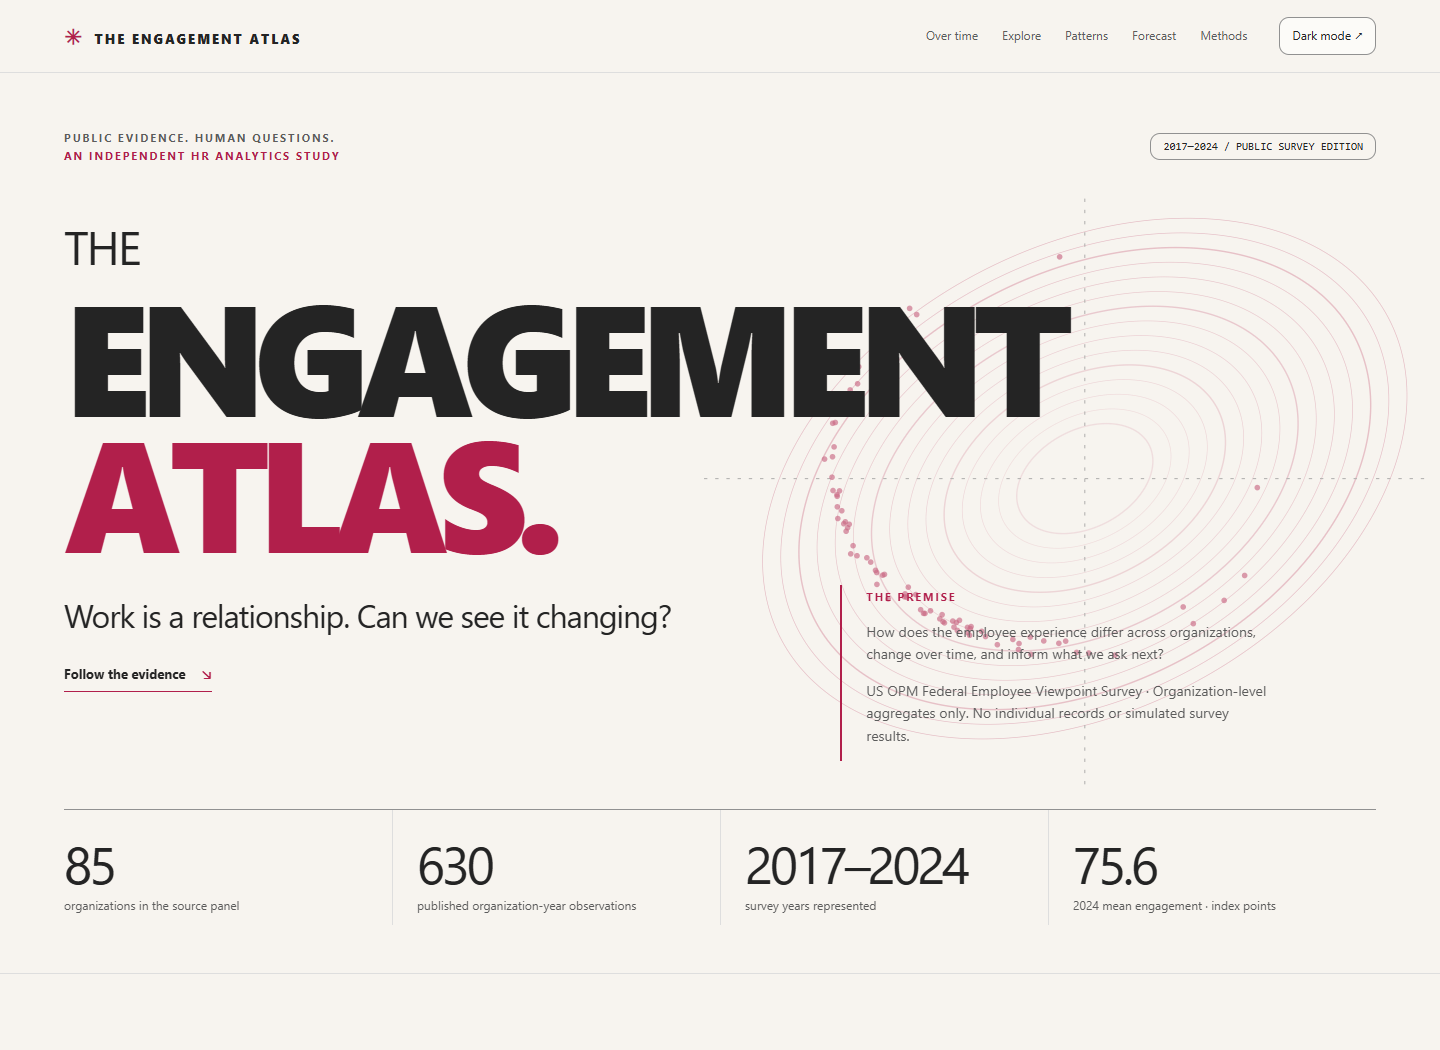
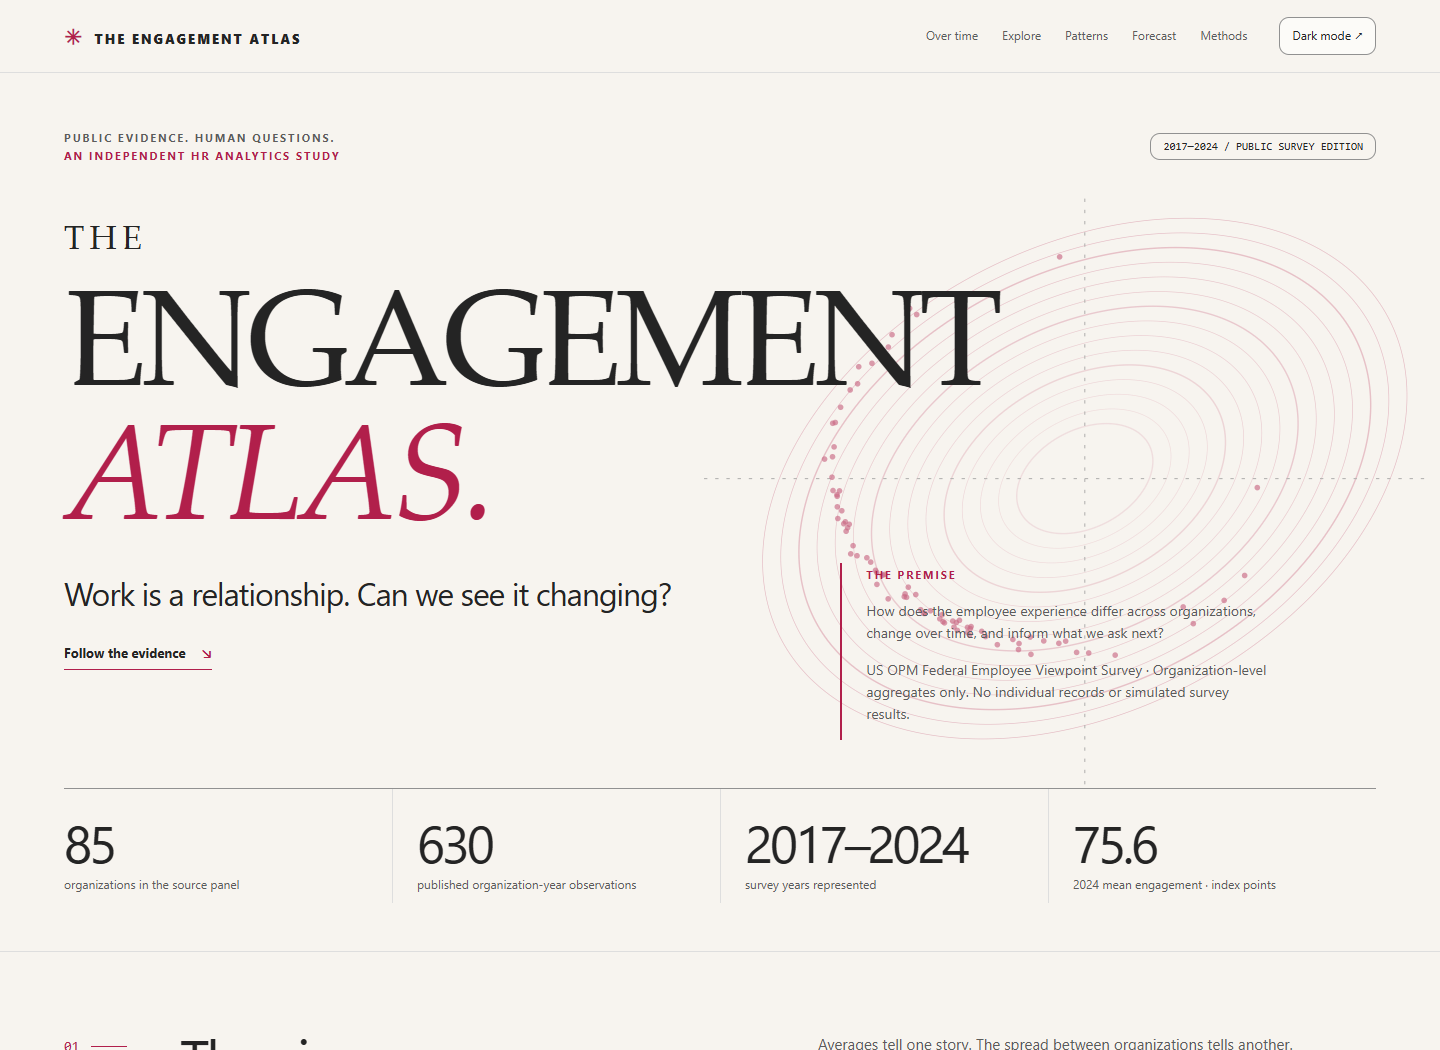
Refine atlas title typography and animate decorative assembly
Preserve embedded analytical results and the existing brand symbol. Add finite SVG assembly with reduced-motion support and responsive title checks.

Copilot-Session: e97de8f7-33da-4b33-9f90-0f9dca1ac86a

diff --git a/docs/index.html b/docs/index.html
@@ -100,9 +100,9 @@
     .hero { position: relative; overflow: hidden; padding-top: 56px; padding-bottom: 48px; }
     .hero-top { display: flex; justify-content: space-between; align-items: center; gap: 24px; }
     .edition { border: 1px solid var(--cp-border-strong); border-radius: .625rem; padding: 6px 12px; font: 11px Consolas, "Courier New", Courier, monospace; }
-    .hero-title { position: relative; z-index: 2; margin: 44px 0 28px; font-weight: 850; font-size: clamp(72px, 10.9vw, 158px); letter-spacing: -.075em; line-height: .87; pointer-events: none; }
-    .hero-title .small { display: block; font-size: .3em; font-weight: 400; letter-spacing: -.045em; line-height: 1.6; }
-    .hero-title .outline { color: var(--cp-accent); display: block; }
+    .hero-title { position: relative; z-index: 2; margin: 44px 0 28px; font-family: "Palatino Linotype", "Book Antiqua", Palatino, Georgia, serif; font-weight: 400; font-size: clamp(64px, 9.5vw, 138px); letter-spacing: -.055em; line-height: .98; pointer-events: none; }
+    .hero-title .small { display: block; font-size: .24em; font-weight: 400; letter-spacing: .16em; line-height: 1.8; }
+    .hero-title .outline { color: var(--cp-accent); display: block; font-style: italic; letter-spacing: -.035em; }
     .hero-art { width: 56%; position: absolute; right: -1%; top: 92px; opacity: .65; pointer-events: none; }
     .hero-copy { display: grid; grid-template-columns: 1.3fr 1fr; gap: 80px; position: relative; z-index: 3; }
     .standfirst { font-size: clamp(22px, 2.3vw, 32px); line-height: 1.35; max-width: 680px; font-weight: 400; letter-spacing: -.035em; margin: 8px 0 24px; }
@@ -211,6 +211,14 @@
     .hero-copy { animation-delay: .2s; }
     .facts { animation-delay: .3s; }
     @keyframes enter { from { transform: translateY(16px); opacity: 0; } to { transform: translateY(0); opacity: 1; } }
+    @media (prefers-reduced-motion: no-preference) {
+      .hero-art .atlas-grid { animation: atlas-grid-in .8s .2s both; }
+      .hero-art .atlas-contour { stroke-dasharray: 1; animation: atlas-draw 2.1s var(--atlas-delay) ease-out both; }
+      .hero-art .atlas-landmark { transform-box: fill-box; transform-origin: center; animation: atlas-landmark-in .65s var(--atlas-delay) ease-out both; }
+      @keyframes atlas-grid-in { from { opacity: 0; } to { opacity: 1; } }
+      @keyframes atlas-draw { from { stroke-dashoffset: 1; } to { stroke-dashoffset: 0; } }
+      @keyframes atlas-landmark-in { from { opacity: 0; transform: scale(.2); } to { opacity: .65; transform: scale(1); } }
+    }
     @media (min-width: 1600px) { .hero-art { right: 4%; } }
     @media (max-width: 1080px) {
       .wrap { padding: 0 32px; }
@@ -232,7 +240,7 @@
       .hero { padding-top: 32px; }
       .hero-top { align-items: start; }
       .hero-top .eyebrow { max-width: 180px; font-size: 9px; }
-      .hero-title { margin-top: 48px; font-size: clamp(32px,13vw,94px); overflow-wrap: anywhere; }
+      .hero-title { margin-top: 48px; font-size: clamp(32px,10.8vw,82px); }
       .hero-art { width: 95%; right: -28%; top: 68px; opacity: .38; }
       .hero-copy, .split, .sources { grid-template-columns: 1fr; gap: 24px; }
       .hero-note { max-width: none; }
@@ -506,14 +514,14 @@
         let art = "";
         for(let i=0;i<ringCount;i++) {
           const radius = 60+i*16;
-          art += `<ellipse cx="${cx}" cy="${cy}" rx="${radius*1.08}" ry="${radius*(.35+avg/200)}" transform="rotate(-28 ${cx} ${cy})" fill="none" stroke="var(--cp-accent)" stroke-width="${i%4===0?1.3:.6}" opacity="${.16+i*.018}"/>`;
+          art += `<ellipse class="atlas-contour" pathLength="1" style="--atlas-delay:${(.6+i*.045).toFixed(3)}s" cx="${cx}" cy="${cy}" rx="${radius*1.08}" ry="${radius*(.35+avg/200)}" transform="rotate(-28 ${cx} ${cy})" fill="none" stroke="var(--cp-accent)" stroke-width="${i%4===0?1.3:.6}" opacity="${.16+i*.018}"/>`;
         }
-        art += `<line x1="50" x2="700" y1="${cy}" y2="${cy}" stroke="var(--cp-border-strong)" stroke-dasharray="3 7"/><line x1="${cx}" x2="${cx}" y1="30" y2="560" stroke="var(--cp-border-strong)" stroke-dasharray="3 7"/>`;
+        art += `<line class="atlas-grid" x1="50" x2="700" y1="${cy}" y2="${cy}" stroke="var(--cp-border-strong)" stroke-dasharray="3 7"/><line class="atlas-grid" x1="${cx}" x2="${cx}" y1="30" y2="560" stroke="var(--cp-border-strong)" stroke-dasharray="3 7"/>`;
         sample.forEach((r,i)=>{
           const angle = ((feature && valid(r[feature.key])) ? r[feature.key]/100 : i/sample.length)*Math.PI*2-Math.PI/2;
           const radius = 62+r.engagement*2;
           const px = cx+Math.cos(angle)*radius, py=cy+Math.sin(angle)*radius*.77;
-          art += `<circle cx="${px.toFixed(2)}" cy="${py.toFixed(2)}" r="2.5" fill="var(--cp-accent)" opacity=".65"/>`;
+          art += `<circle class="atlas-landmark" style="--atlas-delay:${(1.4+Math.min(i,40)*.03).toFixed(3)}s" cx="${px.toFixed(2)}" cy="${py.toFixed(2)}" r="2.5" fill="var(--cp-accent)" opacity=".65"/>`;
         });
         $("hero-art").innerHTML=s+art+"</svg>";
       }

diff --git a/docs/template.html b/docs/template.html
@@ -100,9 +100,9 @@
     .hero { position: relative; overflow: hidden; padding-top: 56px; padding-bottom: 48px; }
     .hero-top { display: flex; justify-content: space-between; align-items: center; gap: 24px; }
     .edition { border: 1px solid var(--cp-border-strong); border-radius: .625rem; padding: 6px 12px; font: 11px Consolas, "Courier New", Courier, monospace; }
-    .hero-title { position: relative; z-index: 2; margin: 44px 0 28px; font-weight: 850; font-size: clamp(72px, 10.9vw, 158px); letter-spacing: -.075em; line-height: .87; pointer-events: none; }
-    .hero-title .small { display: block; font-size: .3em; font-weight: 400; letter-spacing: -.045em; line-height: 1.6; }
-    .hero-title .outline { color: var(--cp-accent); display: block; }
+    .hero-title { position: relative; z-index: 2; margin: 44px 0 28px; font-family: "Palatino Linotype", "Book Antiqua", Palatino, Georgia, serif; font-weight: 400; font-size: clamp(64px, 9.5vw, 138px); letter-spacing: -.055em; line-height: .98; pointer-events: none; }
+    .hero-title .small { display: block; font-size: .24em; font-weight: 400; letter-spacing: .16em; line-height: 1.8; }
+    .hero-title .outline { color: var(--cp-accent); display: block; font-style: italic; letter-spacing: -.035em; }
     .hero-art { width: 56%; position: absolute; right: -1%; top: 92px; opacity: .65; pointer-events: none; }
     .hero-copy { display: grid; grid-template-columns: 1.3fr 1fr; gap: 80px; position: relative; z-index: 3; }
     .standfirst { font-size: clamp(22px, 2.3vw, 32px); line-height: 1.35; max-width: 680px; font-weight: 400; letter-spacing: -.035em; margin: 8px 0 24px; }
@@ -211,6 +211,14 @@
     .hero-copy { animation-delay: .2s; }
     .facts { animation-delay: .3s; }
     @keyframes enter { from { transform: translateY(16px); opacity: 0; } to { transform: translateY(0); opacity: 1; } }
+    @media (prefers-reduced-motion: no-preference) {
+      .hero-art .atlas-grid { animation: atlas-grid-in .8s .2s both; }
+      .hero-art .atlas-contour { stroke-dasharray: 1; animation: atlas-draw 2.1s var(--atlas-delay) ease-out both; }
+      .hero-art .atlas-landmark { transform-box: fill-box; transform-origin: center; animation: atlas-landmark-in .65s var(--atlas-delay) ease-out both; }
+      @keyframes atlas-grid-in { from { opacity: 0; } to { opacity: 1; } }
+      @keyframes atlas-draw { from { stroke-dashoffset: 1; } to { stroke-dashoffset: 0; } }
+      @keyframes atlas-landmark-in { from { opacity: 0; transform: scale(.2); } to { opacity: .65; transform: scale(1); } }
+    }
     @media (min-width: 1600px) { .hero-art { right: 4%; } }
     @media (max-width: 1080px) {
       .wrap { padding: 0 32px; }
@@ -232,7 +240,7 @@
       .hero { padding-top: 32px; }
       .hero-top { align-items: start; }
       .hero-top .eyebrow { max-width: 180px; font-size: 9px; }
-      .hero-title { margin-top: 48px; font-size: clamp(32px,13vw,94px); overflow-wrap: anywhere; }
+      .hero-title { margin-top: 48px; font-size: clamp(32px,10.8vw,82px); }
       .hero-art { width: 95%; right: -28%; top: 68px; opacity: .38; }
       .hero-copy, .split, .sources { grid-template-columns: 1fr; gap: 24px; }
       .hero-note { max-width: none; }
@@ -506,14 +514,14 @@
         let art = "";
         for(let i=0;i<ringCount;i++) {
           const radius = 60+i*16;
-          art += `<ellipse cx="${cx}" cy="${cy}" rx="${radius*1.08}" ry="${radius*(.35+avg/200)}" transform="rotate(-28 ${cx} ${cy})" fill="none" stroke="var(--cp-accent)" stroke-width="${i%4===0?1.3:.6}" opacity="${.16+i*.018}"/>`;
+          art += `<ellipse class="atlas-contour" pathLength="1" style="--atlas-delay:${(.6+i*.045).toFixed(3)}s" cx="${cx}" cy="${cy}" rx="${radius*1.08}" ry="${radius*(.35+avg/200)}" transform="rotate(-28 ${cx} ${cy})" fill="none" stroke="var(--cp-accent)" stroke-width="${i%4===0?1.3:.6}" opacity="${.16+i*.018}"/>`;
         }
-        art += `<line x1="50" x2="700" y1="${cy}" y2="${cy}" stroke="var(--cp-border-strong)" stroke-dasharray="3 7"/><line x1="${cx}" x2="${cx}" y1="30" y2="560" stroke="var(--cp-border-strong)" stroke-dasharray="3 7"/>`;
+        art += `<line class="atlas-grid" x1="50" x2="700" y1="${cy}" y2="${cy}" stroke="var(--cp-border-strong)" stroke-dasharray="3 7"/><line class="atlas-grid" x1="${cx}" x2="${cx}" y1="30" y2="560" stroke="var(--cp-border-strong)" stroke-dasharray="3 7"/>`;
         sample.forEach((r,i)=>{
           const angle = ((feature && valid(r[feature.key])) ? r[feature.key]/100 : i/sample.length)*Math.PI*2-Math.PI/2;
           const radius = 62+r.engagement*2;
           const px = cx+Math.cos(angle)*radius, py=cy+Math.sin(angle)*radius*.77;
-          art += `<circle cx="${px.toFixed(2)}" cy="${py.toFixed(2)}" r="2.5" fill="var(--cp-accent)" opacity=".65"/>`;
+          art += `<circle class="atlas-landmark" style="--atlas-delay:${(1.4+Math.min(i,40)*.03).toFixed(3)}s" cx="${px.toFixed(2)}" cy="${py.toFixed(2)}" r="2.5" fill="var(--cp-accent)" opacity=".65"/>`;
         });
         $("hero-art").innerHTML=s+art+"</svg>";
       }

diff --git a/scripts/check_browser.py b/scripts/check_browser.py
@@ -20,7 +20,11 @@ def main():
         browser = playwright.chromium.launch(
             channel="msedge" if sys.platform == "win32" else None, headless=True
         )
-        page = browser.new_page(viewport={"width": 1440, "height": 1050}, device_scale_factor=1)
+        page = browser.new_page(
+            viewport={"width": 1440, "height": 1050},
+            device_scale_factor=1,
+            reduced_motion="no-preference",
+        )
         errors = []
         page.on("pageerror", lambda error: errors.append(str(error)))
         page.goto(url, wait_until="load")
@@ -32,6 +36,25 @@ def main():
         assert not errors, errors
         assert page.evaluate("document.documentElement.scrollWidth <= window.innerWidth"), (
             "Desktop overflow"
+        )
+        assert page.locator("#hero-art").evaluate(
+            """el => {
+                const animations = el.getAnimations({subtree: true});
+                return animations.length > 0 && animations.every(animation => {
+                    const timing = animation.effect.getComputedTiming();
+                    return timing.iterations === 1 && timing.endTime <= 5000;
+                });
+            }"""
+        ), "Decorative atlas should assemble once and finish within five seconds."
+        page.wait_for_function(
+            """() => {
+                const art = document.getElementById("hero-art");
+                return [...art.querySelectorAll(".atlas-contour")].every(el =>
+                    parseFloat(getComputedStyle(el).strokeDashoffset) === 0)
+                    && art.getAnimations({subtree: true}).every(animation =>
+                        animation.playState === "finished");
+            }""",
+            timeout=5500,
         )
         if args.screenshots:
             folder = ROOT / "docs" / "assets"
@@ -73,16 +96,31 @@ def main():
         page.get_by_role("button", name="Profile 2", exact=True).click()
         page.locator("#prediction-select").select_option("Office of Personnel Management")
         assert not errors, errors
-        for width, height in [(390, 844), (768, 1024)]:
+        for width, height in [(320, 844), (390, 844), (768, 1024)]:
             page.set_viewport_size({"width": width, "height": height})
             page.wait_for_timeout(200)
             assert page.evaluate("document.documentElement.scrollWidth <= window.innerWidth"), (
                 f"Horizontal overflow at {width}px"
             )
+            assert page.locator("#hero-title").evaluate(
+                """el => {
+                    const range = document.createRange();
+                    range.selectNodeContents(el);
+                    const bounds = el.getBoundingClientRect();
+                    return [...range.getClientRects()].every(rect =>
+                        rect.left >= bounds.left - 1 && rect.right <= bounds.right + 1);
+                }"""
+            ), f"Title is clipped at {width}px"
             assert not errors, errors
         page.emulate_media(reduced_motion="reduce")
         page.reload(wait_until="load")
         assert page.locator("svg").count() >= 5
+        assert page.locator("#hero-art").evaluate(
+            "el => el.getAnimations({subtree: true}).length === 0"
+        ), "Reduced-motion visitors should see a static atlas."
+        assert page.locator("#hero-art .atlas-landmark").first.evaluate(
+            "el => Number(getComputedStyle(el).opacity) > 0"
+        ), "The static atlas should retain its landmarks."
         if args.screenshots:
             page.set_viewport_size({"width": 390, "height": 844})
             page.evaluate("window.scrollTo(0, 0)")
